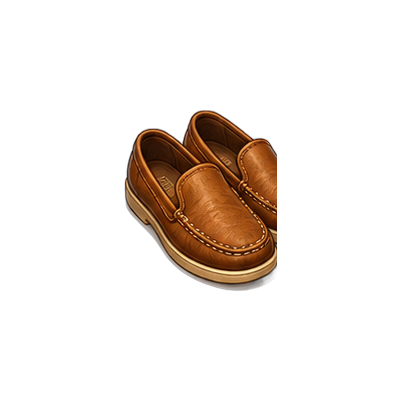
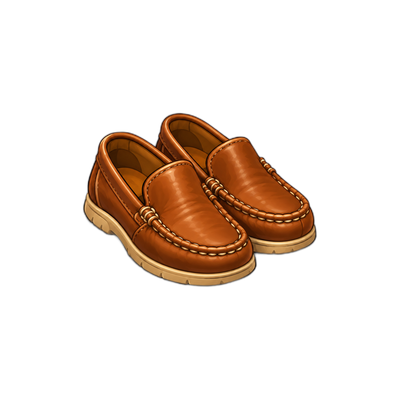
Replace loafers with a clean standalone regeneration; wire up achievement badges
Comfy Loafers: the sheet-cropped version had a genuine source-art limit
(toe drawn right at/past the original cell boundary, confirmed by
zooming into the source at full resolution -- no amount of recropping
could recover pixels that were never generated). Replaced with a fresh
standalone ChatGPT generation with correct margin on all sides;
downscaled from 1382px to 400px since it only ever displays up to 72px
in-game (610KB -> 68KB, in line with the other item icons).

Achievement badges: wired up the 4 that exist in INITIAL_ACHIEVEMENTS
today (Early Bird, Community Pillar, Debate Champion, Wealthy
Pensioner) -- real self-contained circular medallion art (laurel
wreath, ribbon banner, gold border already baked into the design),
background-removed to transparent so the medallion floats cleanly
instead of sitting in a white box. Keyed by achievement `id` (a1-a4),
safe since these are read directly from the array and only ever get
`.completed` toggled, never cloned with a new id. Falls back to the
original emoji if a lookup ever misses.

4 additional badges (Garden Guru, Fitness Fanatic, Tech Savvy, Event
Enthusiast) were also generated but don't correspond to any achievement
in the code yet -- stored in art-source/achievements_future/ for
whenever those get added as real achievements.

tsc --noEmit and npm run build both clean.

Changed region(s): [[0.21, 0.27, 0.81, 0.75]]

diff --git a/components/UIPanels.tsx b/components/UIPanels.tsx
@@ -1,7 +1,7 @@
 import React, { useState, useEffect, useCallback } from 'react';
 import { Elder, Gear, Quest, Achievement, Season, ElderType, MailMessage } from '../types';
 import { 
-  ELDER_AVATARS, ElderAvatarImg, ItemIcon, PARCEL_ICON_ASSETS, TEAM_SIZE_LIMIT, SHOP_ITEMS, SEASONAL_REWARDS, 
+  ELDER_AVATARS, ElderAvatarImg, ItemIcon, PARCEL_ICON_ASSETS, ACHIEVEMENT_ICON_ASSETS, TEAM_SIZE_LIMIT, SHOP_ITEMS, SEASONAL_REWARDS, 
   SEASON_XP_PER_LEVEL, ELDER_TYPE_STYLING, DAILY_REWARDS, 
   MAX_ADS_PER_HOUR, DIVIDEND_COOLDOWN, INVESTMENT_TIERS,
   SHUFFLEBOARD_KING_BOOST
@@ -740,7 +740,11 @@ export const QuestPanel: React.FC<{
           {achievements.map(a => (
             <div key={a.id} className={`p-6 rounded-[2.5rem] border shadow-sm transition-all ${isDark ? 'bg-slate-800 border-slate-700' : 'bg-white border-slate-100'} ${a.completed ? '' : 'opacity-50 grayscale'}`}>
               <div className="flex items-center gap-4">
-                <span className="text-3xl">{a.icon}</span>
+                {ACHIEVEMENT_ICON_ASSETS[a.id] ? (
+                  <img src={ACHIEVEMENT_ICON_ASSETS[a.id]} alt={a.title} className="w-14 h-14 object-contain flex-shrink-0" />
+                ) : (
+                  <span className="text-3xl">{a.icon}</span>
+                )}
                 <div className="flex-1">
                   <h4 className={`font-black text-sm uppercase ${isDark ? 'text-slate-100' : 'text-slate-800'}`}>{a.title}</h4>
                   <p className="text-[10px] text-slate-500">{a.description}</p>

diff --git a/constants.tsx b/constants.tsx
@@ -59,6 +59,20 @@ import parkDirectorshipImg from './game-assets/parcels/park_directorship.png';
 import playerMarkerImg from './game-assets/player/player_marker.png';
 export const PLAYER_MARKER_IMG = playerMarkerImg;
 
+import earlyBirdImg from './game-assets/achievements/early_bird.png';
+import communityPillarImg from './game-assets/achievements/community_pillar.png';
+import debateChampionImg from './game-assets/achievements/debate_champion.png';
+import wealthyPensionerImg from './game-assets/achievements/wealthy_pensioner.png';
+
+// Keyed by id -- INITIAL_ACHIEVEMENTS items are read directly from this array
+// and only ever have `.completed` toggled, never cloned with a new id.
+export const ACHIEVEMENT_ICON_ASSETS: Record<string, string> = {
+  a1: earlyBirdImg,
+  a2: communityPillarImg,
+  a3: debateChampionImg,
+  a4: wealthyPensionerImg,
+};
+
 export const GAME_VERSION = '1.7.0';
 export const TEAM_SIZE_LIMIT = 6;
 export const BASE_POPULATION_LIMIT = 100;
